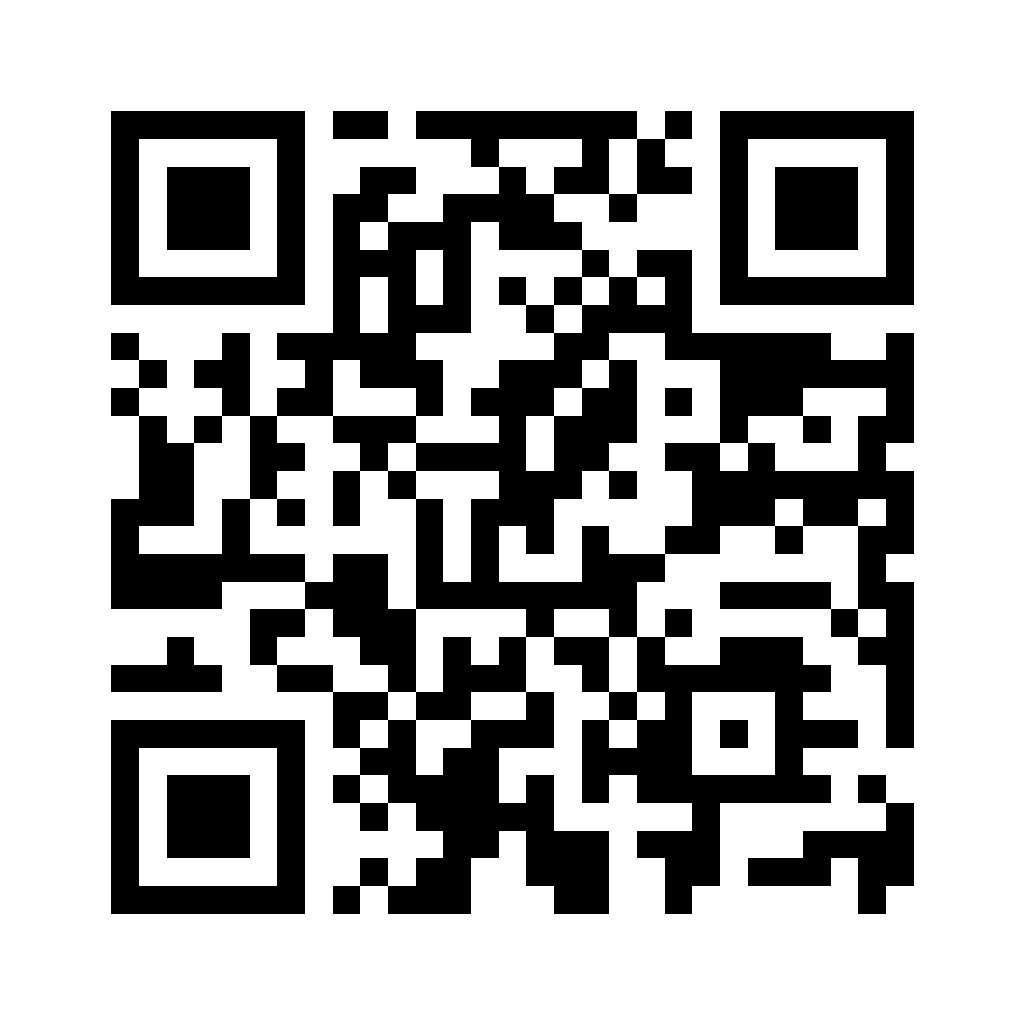
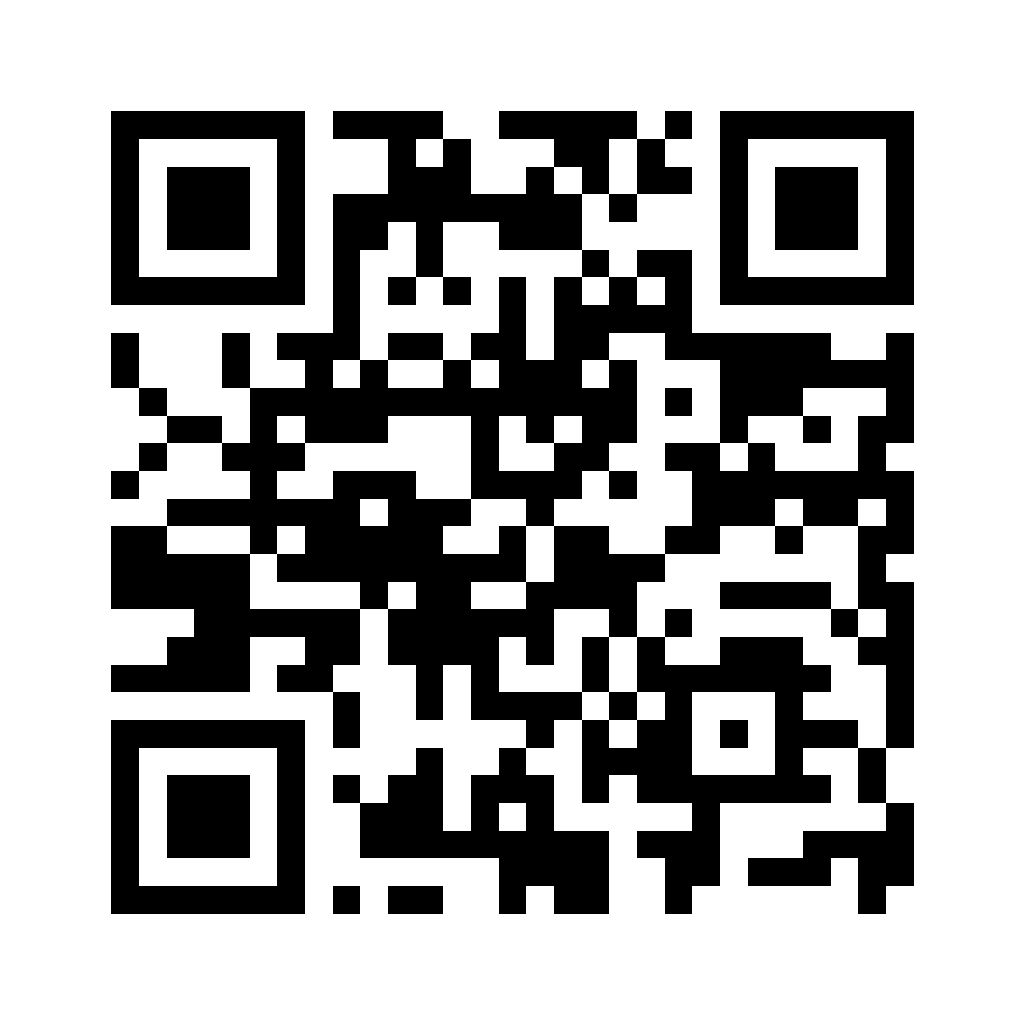
Add /estreno share page with album cover and song description preview.

Changed region(s): [[0.0938, 0.0938, 0.5938, 0.9062], [0.8125, 0.7188, 0.875, 0.7812]]

diff --git a/public/estreno/index.html b/public/estreno/index.html
@@ -1,0 +1,44 @@
+<!doctype html>
+<html lang="es">
+  <head>
+    <meta charset="UTF-8" />
+    <meta name="viewport" content="width=device-width, initial-scale=1.0" />
+    <title>Waiting For You — Zilver</title>
+    <meta
+      name="description"
+      content='"Waiting For You" es una canción que escribí recordando como anhelaba la vida con mi pareja antes si quiera que fueramos novios y lo bello cuando resulta por hacerse realidad. Es un track de Indie Pop Rock energizante y romántico que captura la adrenalina del anhelo mutuo.'
+    />
+
+    <meta property="og:type" content="music.song" />
+    <meta property="og:site_name" content="Zilver" />
+    <meta property="og:locale" content="es_MX" />
+    <meta property="og:url" content="https://zilver-hosting.web.app/estreno" />
+    <meta property="og:title" content="Waiting For You — Zilver" />
+    <meta
+      property="og:description"
+      content='"Waiting For You" es una canción que escribí recordando como anhelaba la vida con mi pareja antes si quiera que fueramos novios y lo bello cuando resulta por hacerse realidad. Es un track de Indie Pop Rock energizante y romántico que captura la adrenalina del anhelo mutuo. Fusiona sintetizadores pulsantes y cajas de ritmo al estilo New Order con la energía guitarrera de The Strokes, logrando un sonido dinámico que recuerda a un The Cure en su faceta más popera y bailable.'
+    />
+    <meta property="og:image" content="https://zilver-hosting.web.app/og-estreno.png" />
+    <meta property="og:image:type" content="image/png" />
+    <meta property="og:image:width" content="1200" />
+    <meta property="og:image:height" content="1200" />
+    <meta property="og:image:alt" content="Portada de Waiting For You — Zilver" />
+
+    <meta name="twitter:card" content="summary_large_image" />
+    <meta name="twitter:title" content="Waiting For You — Zilver" />
+    <meta
+      name="twitter:description"
+      content='"Waiting For You" es una canción que escribí recordando como anhelaba la vida con mi pareja antes si quiera que fueramos novios y lo bello cuando resulta por hacerse realidad. Es un track de Indie Pop Rock energizante y romántico que captura la adrenalina del anhelo mutuo. Fusiona sintetizadores pulsantes y cajas de ritmo al estilo New Order con la energía guitarrera de The Strokes, logrando un sonido dinámico que recuerda a un The Cure en su faceta más popera y bailable.'
+    />
+    <meta name="twitter:image" content="https://zilver-hosting.web.app/og-estreno.png" />
+
+    <link rel="icon" href="/favicon.ico?v=3" sizes="any" />
+    <meta http-equiv="refresh" content="0;url=https://zilver-hosting.web.app/#estreno" />
+    <script>
+      location.replace('https://zilver-hosting.web.app/#estreno')
+    </script>
+  </head>
+  <body style="margin:0;background:#000;color:#fff;font-family:system-ui,sans-serif;padding:24px">
+    <p>Redirigiendo a <a href="https://zilver-hosting.web.app/#estreno" style="color:#fff">Waiting For You — Pre-Save</a>…</p>
+  </body>
+</html>

diff --git a/src/data/presave.ts b/src/data/presave.ts
@@ -13,8 +13,11 @@ export const waitingForYouPresave = {
   bandcampLabel: 'Bandcamp',
   bandcampUrl: 'https://zilver.bandcamp.com/track/waiting-for-you',
   /**
-   * Link permanente para stickers / QR → sección #estreno del sitio.
-   * No vence: es la URL del hosting + ancla (mientras el sitio y el id existan).
+   * Link para compartir / stickers / QR.
+   * Usa /estreno (no #) para que WhatsApp muestre portada + descripción de la canción.
    */
-  siteEstrenoUrl: 'https://zilver-hosting.web.app/#estreno',
+  siteEstrenoUrl: 'https://zilver-hosting.web.app/estreno',
+  songShareDescription:
+    '"Waiting For You" es una canción que escribí recordando como anhelaba la vida con mi pareja antes si quiera que fueramos novios y lo bello cuando resulta por hacerse realidad. Es un track de Indie Pop Rock energizante y romántico que captura la adrenalina del anhelo mutuo. Fusiona sintetizadores pulsantes y cajas de ritmo al estilo New Order con la energía guitarrera de The Strokes, logrando un sonido dinámico que recuerda a un The Cure en su faceta más popera y bailable.',
 } as const
+
